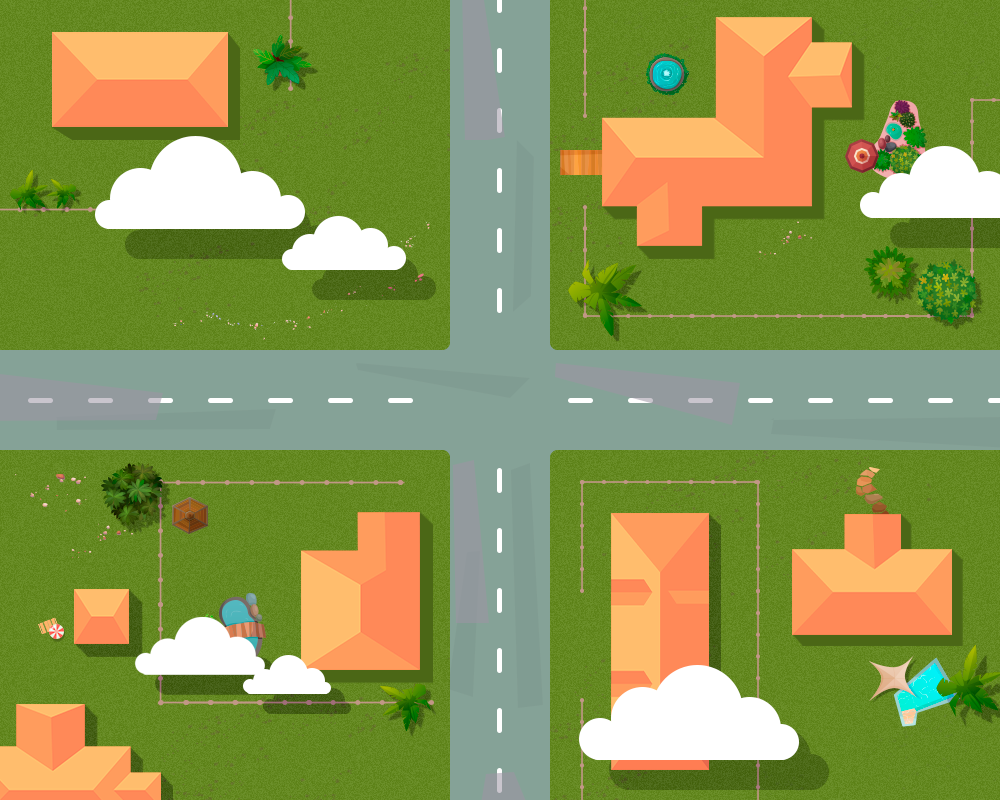
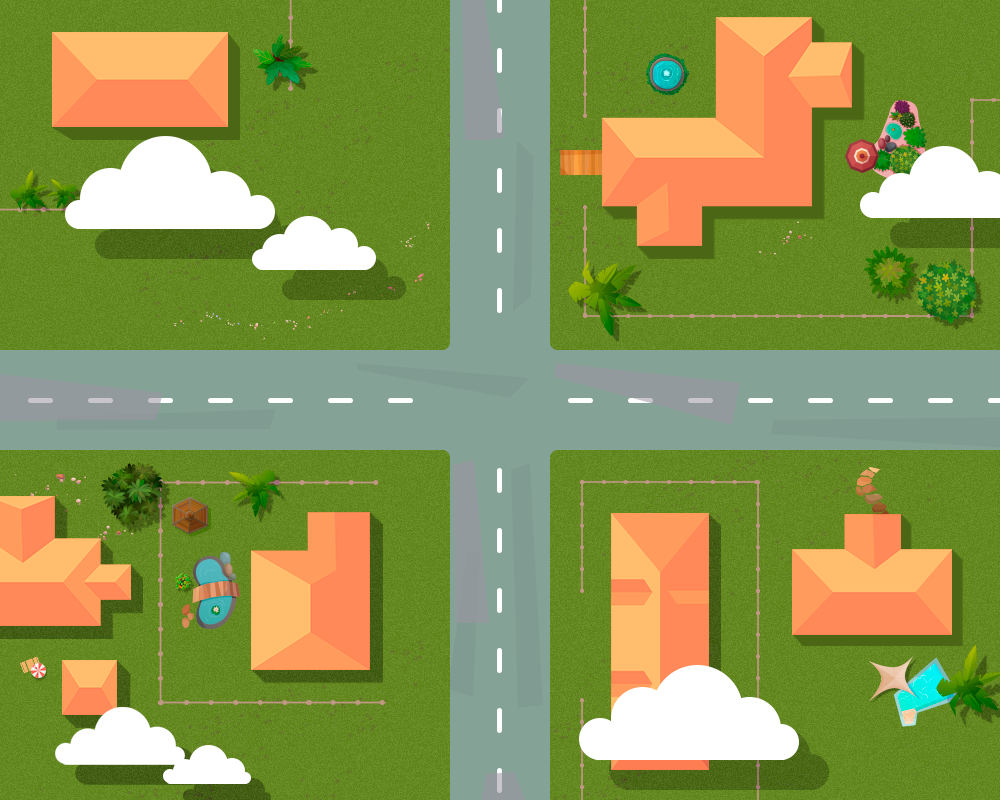
Dino added

diff --git a/js/cars.js b/js/cars.js
@@ -81,21 +81,9 @@ const vehicules = [
     }
 ];
 
-
-const randomDelay = () => {
-    return Math.floor(Math.random() * (130 - 60) + 60);
-}
-
-
 class GameComponents {
 
     constructor() {
-    }
-
-    update() {
-        const newCarImg = new Image();
-        newCarImg.src = this.imgUrl;
-        ctx.drawImage(newCarImg, this.x, this.y, this.width, this.height); 
     }
 
     top() { return this.y; }
@@ -134,23 +122,22 @@ class Car extends GameComponents {
         this.y = this.lane.laneStartPointY;
     }
 
+    update() {
+        const newCarImg = new Image();
+        newCarImg.src = this.imgUrl;
+        ctx.drawImage(newCarImg, this.x, this.y, this.width, this.height); 
+    }
+
 }
 
 // Generate cars
 
 const updateCars = () => {
 
-    if ( game.score === 0 && game.frames === 0 ) {
-        for ( let i = 0 ; i < carLanes.length ; i++ ) {
-            for ( let j = 0 ; j < carLanes[i].cars.length ; j++ ) {
-                carLanes[i].cars = [];                
-            }
-        }
-    }
-
+    // Check for crashes
     for ( let i = 0 ; i < carLanes.length ; i++ ) {
         for ( let j = 0 ; j < carLanes[i].cars.length ; j++ ) {
-            if ( checkCrash(carLanes[i], carLanes[i].cars[j], j) ) {
+            if ( checkCarCrashes(carLanes[i], carLanes[i].cars[j], j) ) {
                 stopAllCars();
                 // handleExplosion(carLanes[i].cars[j]);
                 game.isOn = false;
@@ -158,7 +145,8 @@ const updateCars = () => {
         }
     }
 
-    if (game.frames % 50 === 0) {
+    // Generate new car on a random lane
+    if (game.frames % 80 === 0) {
 
         const randCar = vehicules[Math.floor(Math.random() * vehicules.length)];
 
@@ -167,17 +155,8 @@ const updateCars = () => {
         game.lastLane = randLaneNum;
         const lane = carLanes[randLaneNum];
 
-        if (!lane.cars.length) { // random picked lan is empty
-
-            if ( Math.random() < .3 ) { // coin flip for dinosaur
-
-                generateDino(); 
-
-            } 
-        }
-
         let height, width, carFileName;
-
+        
         switch(lane) {
             case carLaneLeftToRight:
                 carFileName = `vehicule-LR-${randCar.id}`;
@@ -201,18 +180,15 @@ const updateCars = () => {
                 break;
         }
 
-        const delay = randomDelay();
-
         setTimeout(() => { 
             const newCar = new Car(lane, height, width, carFileName)
             lane.cars.push(newCar)
-        }, delay );
-        
+        }, randomDelay() );  
+
     }
 
     // Delete cars out of canvas
     // Otherwise, make it move
-
     carLanes.forEach(lane => {
         lane.cars.forEach((car, i) => {
 
@@ -223,16 +199,16 @@ const updateCars = () => {
                 if ( car.isMoving ) {
                     switch(lane) {
                         case carLaneLeftToRight:
-                             car.x += 2.5;
+                             car.x += 3;
                             break;
                         case carLaneRightToLeft:
-                            car.x -= 2.5;
+                            car.x -= 3;
                             break;
                         case carLaneTopToBottom:
-                            car.y += 2.5;
+                            car.y += 3;
                             break;
                         case carLaneBottomToTop:
-                            car.y -= 2.5;
+                            car.y -= 3;
                             break;
                     }
                 }
@@ -275,7 +251,7 @@ const stopAllCars = () => {
     
 }
 
-const checkCrash = (carLane, carObj, carIndex) => {
+const checkCarCrashes = (carLane, carObj, carIndex) => {
 
     const otherCars =  [];
 

diff --git a/js/dino.js b/js/dino.js
@@ -1,22 +1,97 @@
+let dinos = [];
+
 class Dino extends GameComponents {
 
-    constructor(lane, height, width) {
+    constructor(height, width, imgFileName) {
         super();
         this.isMoving = true;
-        this.imgUrl = `./imgs/dino.png`;
+        this.imgFileName = imgFileName;
+        this.imgUrl = `./imgs/${imgFileName}-1a.png`;
+        this.imgUrl1 = `./imgs/${imgFileName}-1a.png`;
+        this.imgUrl2 = `./imgs/${imgFileName}-1b.png`;
         
-        // FOR TESTING
-        this.lane = carLanes[0]
-        // this.lane = lane;
         this.height = height;
         this.width = width;
 
-        this.x = this.lane.laneStartPointX;
-        this.y = this.lane.laneStartPointY;
+        this.x = 390;
+        this.y = -50;
+    }
+
+    update() {
+        const newDinoImg = new Image(); 
+
+        if ( game.frames % 15 === 0) {
+            if ( this.imgUrl === this.imgUrl1 ) {
+                this.imgUrl = this.imgUrl2;
+            } else if ( this.imgUrl === this.imgUrl2 ) {
+                this.imgUrl = this.imgUrl1;
+            }
+        }
+
+        newDinoImg.src = this.imgUrl;
+
+        ctx.drawImage(newDinoImg, this.x, this.y, this.width, this.height); 
     }
 
 }
 
-const generateDino = () => {
+const generateDinos = () => {
 
+    // Check for dino crashes
+    for ( let i = 0 ; i < dinos.length ; i++ ) {
+        if ( checkDinoCrashes(dinos[i]) ) {
+            stopAllDinos();
+            game.isOn = false;
+        }
+    }
+
+    if (game.frames % 1500 === 0 && Math.random() >= .5) {
+    
+        let dinoFileName = `dino-TB`;
+        let height = 198;
+        let width = 40;
+
+        setTimeout(() => { 
+            const newDino = new Dino(height, width, dinoFileName)
+            dinos.push(newDino)
+        }, randomDelay() );
+
+    }
+
+    // Delete dinos out of canvas
+    // Otherwise, make it move
+    dinos.forEach((dino, i) => {
+
+        if ( dino.isOffCanvas() ) { 
+            dinos.splice(i, 1);
+        } else {
+            dino.y += 2.5;
+        }
+        
+        dino.update();
+    });
+}
+
+const stopAllDinos = () => {
+
+    for ( let i = 0 ; i < dinos.length ; i++ ) {
+        dinos[i].isMoving = false;
+    }
+    
+}
+
+const checkDinoCrashes = (dinoObj) => {
+
+    const allCars =  [];
+
+    carLanes.forEach(lane => {
+        lane.cars.forEach((car, i) => {
+            allCars.push(car);
+        });
+    });
+    
+    let crashed = allCars.some(car => !( car.right() < dinoObj.left() + 8 || car.left() > dinoObj.right() - 8 || car.top() > dinoObj.bottom() - 30 || car.bottom() < dinoObj.top() + 50 ));
+    
+    return crashed;
+    
 }

diff --git a/js/game.js b/js/game.js
@@ -10,7 +10,10 @@ const updateGame = () => {
 
     // add background
     background.draw();
-    
+
+    // generate dinos
+    generateDinos();
+
     // update cars
     updateCars();
 
@@ -63,12 +66,12 @@ class Game {
     }
 
     reset() {
-        ctx.clearRect(0, 0, canvas.width, canvas.height);
         this.frames = 0;
         this.isOn = true;
         this.interval = null;
         this.lastLane = 0;
         this.score = 0;
+        clearGame();
         this.start();
     }
 
@@ -129,4 +132,22 @@ const checkGameOver = () => {
         game.saveScore();
         game.updateLeaderboard(); }, 500);
     } 
+}
+
+const clearGame = () => {
+
+    // Remove all cars if new game
+    if ( game.score === 0 && game.frames === 0 ) {
+        for ( let i = 0 ; i < carLanes.length ; i++ ) {
+            for ( let j = 0 ; j < carLanes[i].cars.length ; j++ ) {
+                carLanes[i].cars = [];                
+            }
+        }
+    }
+
+    // Remove all dinos if new game
+    if ( game.score === 0 && game.frames === 0 ) { dinos = []; }
+
+    ctx.clearRect(0, 0, canvas.width, canvas.height);
+
 }

diff --git a/js/index.js b/js/index.js
@@ -1,3 +1,7 @@
+const randomDelay = () => {
+    return Math.floor(Math.random() * (120 - 50) + 50);
+}
+
 window.addEventListener('load', () => {
 
     // Start button event listener

diff --git a/README.md b/README.md
@@ -1,10 +1,10 @@
-# Traffic Jam!
+# Crashing It!
 
 [Click here to see deployed game](https://fannyarles.github.io/project-canvas-traffic-jam/)
 
 ## Description
 
-Traffic Jam puts the player in charge of traffic control at a crossroad. They have to prevent collisions between cars, for that, they can stop each car by clicking on it. The game stops when a collision happens. The score is based on the numbers of cars that successfully crossed the map.
+Crashing It puts the player in charge of traffic control at a crossroad. They have to prevent collisions between cars, for that, they can stop each car by clicking on it. The game stops when a collision happens. The score is based on the numbers of cars that successfully crossed the map.
 
 ## MVP
 
